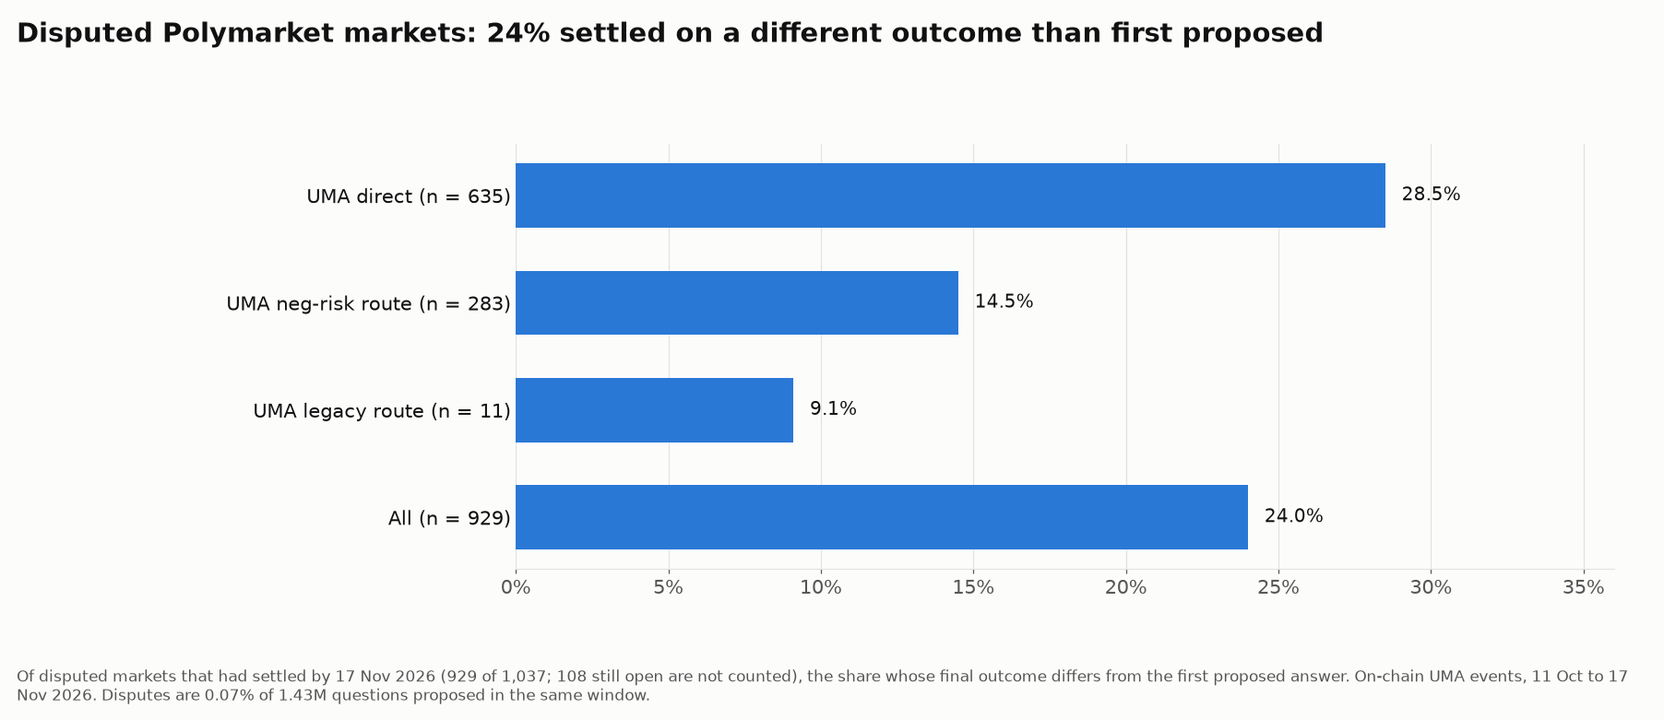
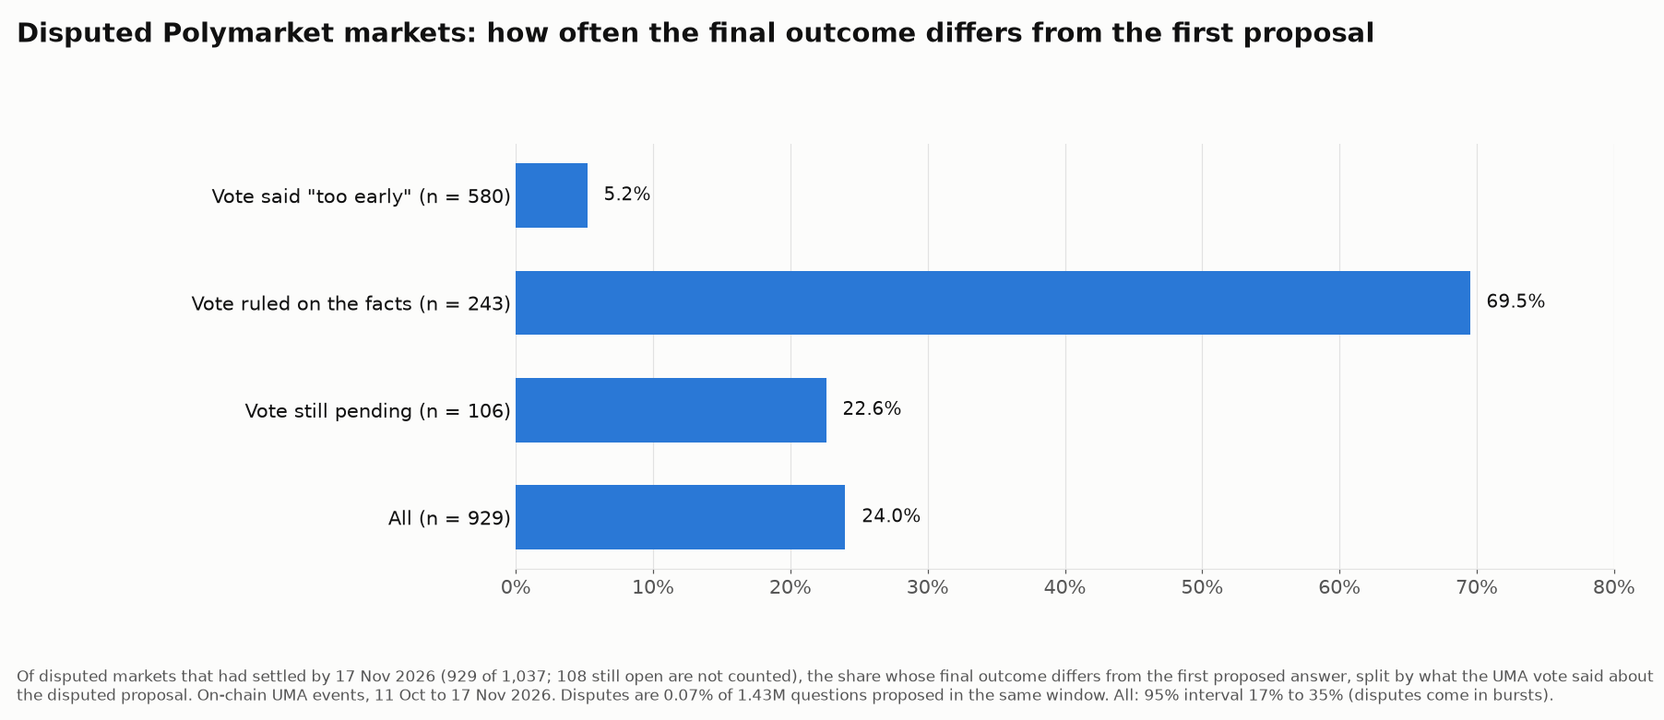
Corrections after adversarial review: cross-venue speed comparison withdrawn, disputes split by vote with clustered interval, was_disputed and admin scope reworded, predictions rescored

diff --git a/scripts/13_charts.py b/scripts/13_charts.py
@@ -43,14 +43,15 @@ finish(fig, "Who resolves Polymarket markets",
        "verified contract source and on-chain pointers, not confirmed by Polymarket. The aggregator path is documented by Polymarket.",
        "1_path_mix.png")
 
-# 2. Outcome changed after a dispute. Source: data/disputes/disputes_final.json.
+# 2. Outcome changed after a dispute, by vote. Source: output of 14_dispute_vote_split.py.
 fig, ax = plt.subplots(figsize=(16.4, 7.1)); fig.subplots_adjust(left=0.31, right=0.97, top=0.8, bottom=0.21)
-hbar(ax, ["UMA direct (n = 635)", "UMA neg-risk route (n = 283)", "UMA legacy route (n = 11)", "All (n = 929)"],
-     [28.5, 14.5, 9.1, 24.0], BLUE, lambda v: f"{v:.1f}%", 36)
+hbar(ax, ['Vote said "too early" (n = 580)', "Vote ruled on the facts (n = 243)", "Vote still pending (n = 106)", "All (n = 929)"],
+     [5.2, 69.5, 22.6, 24.0], BLUE, lambda v: f"{v:.1f}%", 80)
 ax.xaxis.set_major_formatter(FuncFormatter(lambda v, _: f"{v:.0f}%"))
-finish(fig, "Disputed Polymarket markets: 24% settled on a different outcome than first proposed",
+finish(fig, "Disputed Polymarket markets: how often the final outcome differs from the first proposal",
        "Of disputed markets that had settled by 17 Nov 2026 (929 of 1,037; 108 still open are not counted), the share whose final outcome "
-       "differs from the first proposed answer. On-chain UMA events, 11 Oct to 17 Nov 2026. Disputes are 0.07% of 1.43M questions proposed in the same window.",
+       "differs from the first proposed answer, split by what the UMA vote said about the disputed proposal. On-chain UMA events, 11 Oct to 17 Nov 2026. "
+       "Disputes are 0.07% of 1.43M questions proposed in the same window. All: 95% interval 17% to 35% (disputes come in bursts).",
        "2_disputes.png")
 
 # 3. Median lag by category. Polymarket: data/stage7/s7_pm_lag.json pm_lag_by_cat. Kalshi: data/stage4/kalshi_trades.jsonl.gz.
@@ -60,9 +61,10 @@ def fmt_min(v):
     return (f"{v:.1f}".rstrip("0").rstrip(".") if v < 10 else f"{v:.0f}") + " min"  # keep 2.5 min, not "2 min"
 fig, axes = plt.subplots(1, 2, figsize=(20, 7.6)); fig.subplots_adjust(left=0.1, right=0.98, top=0.8, bottom=0.2, wspace=0.4)
 pm = [("Crypto (n 391)", 12.6), ("Macro (n 50)", 122.4), ("Sports (n 553)", 241.8), ("Weather (n 269)", 622.8), ("Politics (n 31)", 1453.8)]
-ka = [("Crypto (n 25)", 2.5), ("Sports (n 25)", 4.0), ("Commodities (n 25)", 63.8), ("Weather (n 43)", 70.6),
-      ("Economics (n 25)", 561.2), ("Entertainment (n 25)", 1072.5)]
-for ax, data, color, sub in ((axes[0], pm, BLUE, "Polymarket: end date to settlement"), (axes[1], ka, ORANGE, "Kalshi: close to settlement")):
+# Kalshi: only categories spread over at least 5 distinct close minutes (n markets / minutes).
+ka = [("Crypto (25 / 11 min)", 2.5), ("Sports (25 / 19)", 4.0), ("Mentions (25 / 5)", 31.0), ("Financials (25 / 10)", 41.5),
+      ("Commodities (25 / 9)", 63.8), ("Weather (43 / 7)", 70.6)]
+for ax, data, color, sub in ((axes[0], pm, BLUE, "Polymarket: end date to settlement (end date = kickoff for sports)"), (axes[1], ka, ORANGE, "Kalshi: close to settlement")):
     labels = [a for a, _ in data]; vals = [b for _, b in data]; y = list(range(len(labels)))[::-1]
     ax.barh(y, vals, color=color, height=0.6, zorder=2)
     ax.set_xscale("log"); ax.set_xlim(1, 8000); ax.set_xticks(LOG_T); ax.set_xticklabels(LOG_L)
@@ -71,10 +73,10 @@ for ax, data, color, sub in ((axes[0], pm, BLUE, "Polymarket: end date to settle
     ax.grid(axis="x", color=GRID, zorder=0); ax.tick_params(axis="y", length=0)
     for s in ("top", "right", "left"): ax.spines[s].set_visible(False)
     ax.set_title(sub, loc="left", fontsize=15, color=INK)
-finish(fig, "Median settlement lag by category (two venues, two different start points)",
+finish(fig, "Median settlement lag by category: two different clocks, not comparable across venues",
        "Polymarket: scheduled markets on the two main UMA paths, closed 17 Nov 2025 to 17 Nov 2026, weighted. Kalshi: category-balanced sample of "
-       "traded non-combo markets closed 18 Sep to 17 Nov 2026 (25 per category, 43 weather). Polymarket counts from the end date, Kalshi from "
-       "the close, and categories are defined differently on each venue: read each panel on its own. Small n per bar.",
+       "traded non-combo markets closed 18 Sep to 17 Nov 2026 (markets / distinct close minutes). Polymarket counts from the end date, which is kickoff for sports, "
+       "midday for weather and start of day for most politics; Kalshi counts from the close. Read each panel on its own. Small n per bar.",
        "3_lag_by_category.png")
 
 # 4. Money waiting. Source: data/stage6/s6_pm_limbo.json and data/stage4/s4_kalshi_results.json (snapshot).

diff --git a/scripts/14_dispute_vote_split.py b/scripts/14_dispute_vote_split.py
@@ -1,0 +1,90 @@
+#!/usr/bin/env python3
+"""Disputes split by what the UMA vote said about the disputed proposal, with intervals that respect clustering.
+
+Why: disputes come in bursts (many questions of one match disputed in the same minute), and most are about
+timing ("too early"), not about the facts. A single 24% hides both.
+
+Inputs: the on-chain question file used by 09_disputes_final.py, and that script's output (or data/disputes_final.json).
+Usage: python3 -I 14_dispute_vote_split.py s2d_disputed_questions.json disputes_final.json
+"""
+import collections, json, random, sys
+
+IGNORE = str(-2**255)  # UMA "too early" answer
+
+
+def vote_kind(q):
+    """What the vote said about the FIRST disputed proposal: too early / upheld / overturned / pending."""
+    P, D, S = (collections.defaultdict(list) for _ in range(3))
+    for key, store in (("P", P), ("D", D), ("S", S)):
+        for t, v, rnd in q[key]:
+            store[rnd].append((t, str(v)))
+    r1 = min(set(P) | set(D) | set(S))
+    if not S.get(r1):
+        return "vote pending"
+    vote, first = min(S[r1])[1], min(P[r1])[1]
+    if vote == IGNORE:
+        return "too early"
+    return "upheld" if vote == first else "overturned"
+
+
+def cluster_ci(groups, stat, reps=4000, seed=1):
+    """95% interval, resampling whole clusters (hours of dispute) instead of single questions."""
+    keys, rng, out = list(groups), random.Random(seed), []
+    for _ in range(reps):
+        sample = [x for k in rng.choices(keys, k=len(keys)) for x in groups[k]]
+        out.append(stat(sample))
+    out.sort()
+    return round(out[int(reps * .025)], 1), round(out[int(reps * .975) - 1], 1)
+
+
+def pct_changed(rows):
+    return 100 * sum(r["changed"] for r in rows) / len(rows)
+
+
+def line_minus_binary(rows):
+    a = [r for r in rows if r["mtype"] == "line"]; b = [r for r in rows if r["mtype"] == "binary"]
+    return pct_changed(a) - pct_changed(b) if a and b else 0.0
+
+
+questions = {q["qid"]: q for q in json.load(open(sys.argv[1]))}
+final = json.load(open(sys.argv[2]))["rows"]
+
+split = collections.defaultdict(collections.Counter)
+by_hour = collections.defaultdict(list); by_minute = collections.Counter(); open_by_minute = collections.Counter()
+speed = collections.defaultdict(lambda: [0, 0, 0])
+for f in final:
+    q = questions[f["qid"]]
+    t_dispute = min(t for t, _, _ in q["D"])
+    settled = f["final"] is not None
+    changed = settled and str(f["final"]) != str(f["first"])
+    kind = vote_kind(q)
+    split[kind]["disputed"] += 1
+    split[kind]["settled"] += settled
+    split[kind]["changed"] += changed
+    by_minute[t_dispute // 60] += 1
+    if not settled:
+        open_by_minute[t_dispute // 60] += 1
+    else:
+        by_hour[t_dispute // 3600].append({"changed": changed, "mtype": f.get("mtype")})
+    # Speed over ALL disputed markets: an open market counts as not settled yet.
+    s = speed[f["path"]]; s[0] += 1
+    if settled:
+        last_round = max(rnd for key in "PDS" for _, _, rnd in q[key])
+        hours = (min(t for t, _, rnd in q["S"] if rnd == last_round) - t_dispute) / 3600
+        s[1] += hours <= 4; s[2] += hours <= 24
+
+rows = [r for v in by_hour.values() for r in v]
+big = by_minute.most_common(1)[0]
+out = {
+    "by_vote_on_first_disputed_proposal": {k: dict(v, changed_pct_of_settled=round(100 * v["changed"] / v["settled"], 1) if v["settled"] else None)
+                                           for k, v in sorted(split.items())},
+    "ruled_on_the_facts": {"settled": split["upheld"]["settled"] + split["overturned"]["settled"],
+                           "changed": split["upheld"]["changed"] + split["overturned"]["changed"]},
+    "all_settled": {"n": len(rows), "changed_pct": round(pct_changed(rows), 1),
+                    "ci95_hour_clusters": cluster_ci(by_hour, pct_changed), "hour_clusters": len(by_hour)},
+    "line_minus_binary_changed_pp": {"point": round(line_minus_binary(rows), 1), "ci95_hour_clusters": cluster_ci(by_hour, line_minus_binary)},
+    "largest_one_minute_burst": {"disputes": big[1], "still_open_at_cutoff": open_by_minute[big[0]]},
+    "share_of_all_disputed_settled_within": {p: {"disputed": n, "4h_pct": round(100 * a / n), "24h_pct": round(100 * b / n)}
+                                             for p, (n, a, b) in sorted(speed.items())},
+}
+print(json.dumps(out, indent=1))

diff --git a/RESULTS.md b/RESULTS.md
@@ -25,7 +25,7 @@ Cutoff 2026-11-17 00:00 UTC. Public data only. Every figure states its window an
 | UMA OOV2, neg-risk route 0x2F5e...a9d + operator (delay 1 h) | 0.9% | inferred |
 | Other / documented legacy adapters | 0.1% | mixed |
 
-Admin override in the code (verified source): adapters can flag, pause, reset or manually resolve (after a flag and a 1 h wait; 2 days on the legacy path); neg-risk operators can block resolution or set the outcome after a flag (no wait on the current route, 1 h on the legacy route), before or after UMA answers, until the result is passed to the market. This is a capability, not an observed event: how often it has been used and which addresses hold the role are not measured in v1. A forward logger records every such event from 18 Nov 2026. In the dispute data below, all 13 third-round re-asks follow a UMA vote result of "too early" (the ignore-price value), not an admin reset.
+Admin override in the code (verified source). Scope: the three UMA adapter paths and their two operators, 82.5% of sampled markets; the V2 aggregator and the no-resolver markets were not reviewed. These functions are in public, audited code; nothing here is evidence of use. Adapters can flag, pause, reset or manually resolve (after a flag and a 1 h wait; 2 days on the legacy path); neg-risk operators can block resolution or set the outcome after a flag (no wait on the current route, 1 h on the legacy route), before or after UMA answers, until the result is passed to the market. This is a capability, not an observed event: how often it has been used and which addresses hold the role are not measured in v1. A forward logger records every such event from 18 Nov 2026. In the dispute data below, all 13 third-round re-asks follow a UMA vote result of "too early" (the ignore-price value), not an admin reset.
 
 ## 2. Disputes (Polymarket, on-chain, 11 Oct to 17 Nov 2026)
 | | MOOV2 direct | MOOV2 routed | OOV2 routed | All |
@@ -46,13 +46,29 @@ Rules: the market outcome is the settlement of the latest request round; a first
 
 The 24.0% is a share of the 929 disputed markets that had settled by the cutoff. The 108 still open are left out; if all of them ended with the first answer, the share would be 21.5% (223 / 1,037); if all of them changed, 31.9%.
 
+**What the vote said about the disputed proposal.** A dispute sends the disputed proposal to the UMA vote while the market is asked again. Splitting the 1,037 by that vote (script `scripts/14_dispute_vote_split.py`):
+
+| Vote on the first disputed proposal | Disputed | Market settled by cutoff | Final outcome differs from first proposal |
+|---|---|---|---|
+| "Too early" (proposal came before the event could be settled) | 660 | 580 | 30 (5.2%) |
+| Ruled on the facts: proposal overturned | 193 | 172 | 169 |
+| Ruled on the facts: proposal upheld | 72 | 71 | 0 |
+| Vote still pending at cutoff | 112 | 106 | 24 (22.6%) |
+| All | 1,037 | 929 | 223 (24.0%) |
+
+So most disputes (64%) are about timing, and in those the first answer nearly always stands. Where the vote ruled on the facts, the final outcome differs in 169 of 243 settled markets (70%). The 24.0% is the mix of the two.
+
+**Disputes come in bursts, so the 24.0% is less precise than 929 markets suggest.** The largest burst is 65 disputes in one minute, all exact-score questions of one football match; all 65 were voted "too early" and were still open at the cutoff, so they are 65 of the 108 open markets. Resampling whole hours of disputes instead of single markets (199 hours) gives a 95% interval of 16.6% to 35.0%. The same resampling for lines vs binary gives a difference of -10.7 points with an interval of -25.7 to +7.9: the gap is not established.
+
+**Speed counted over all disputed markets, not only the settled ones.** The medians in the table leave out the 108 markets still open. Counting those as not yet settled: on the direct path 70% of disputed markets settled within 4 hours of the dispute and 84% within 24 hours; on the neg-risk route 29% and 49%; on the legacy route 11% and 56%.
+
 Excluded requester: 0x5370...8218 (not verified on Sourcify, not in Polymarket docs): 74,202 proposals and 90 disputes in the same 37 days. If it were a Polymarket adapter, the dispute denominator would rise ~5% and the dispute rate would stay at about 0.07%.
 
 Category of disputed questions (direct path mapped to Gamma by questionID; routed and legacy questions from the stage-2f mapping): sports 830, weather 117, politics 44, crypto 11, macro 9, other 4, not mapped 22 (total 1,037).
 
 Line bets vs binary (direct path): disputed at the same rate once the base is taken from the same window (540 disputed line questions and 151 binary, against 8,609 line and 2,352 binary markets in the same-window sample: ratio 0.98x). The 1.82x in the first draft used full-year base rates against 37 days of disputes; lines went from 66% of direct-path line plus binary markets over the full year to 79% in the dispute window, so that ratio was an artifact. Once disputed, lines change outcome less often (26.1%, 128 / 491) than binary markets (36.8%, 53 / 144).
 
-`was_disputed` check: of the 691 direct-path questions disputed on-chain and mapped to Gamma, data-api `/v2/resolutions` flags 29 (4.2%) as disputed. Any dataset built on that field misses about 96% of disputes. Script: `scripts/11_check_was_disputed.py`.
+`was_disputed` check: of the 691 direct-path questions disputed on-chain and mapped to Gamma, data-api `/v2/resolutions` flags 29 (4.2%) as disputed. So the field is not a count of all disputes. It may mark only disputes that were escalated to the UMA vote (38 second disputes on this path), which would make it a narrower field rather than a faulty one; that was not tested here. Script: `scripts/11_check_was_disputed.py`.
 
 Validation: on the direct path, all 635 settled questions map to a Gamma market marked closed, and all 635 match Gamma `outcomePrices`. Routed and legacy paths: 278 settled questions mapped, 278 / 278 match.
 
@@ -66,18 +82,20 @@ Validation: on the direct path, all 635 settled questions map to a Gamma market 
 | Kalshi, close to settlement, all settled non-combo (95% CI, minutes resampled) | 19,373 | 2.9 min (2.7 to 4.1) | 64 min (30 min to 9.5 h) | 10.8 h |
 | Kalshi, close to settlement, traded markets only | 6,532 | 4.0 min (4.0 to 6.0) | 9.2 h (6 min to 9.5 h) | 18.4 h |
 
-The Polymarket median is stable at ~4 h across windows and quarters. The p90 is not: 10.3 h over the full year, 6.1 to 6.3 h in the recent windows. Settlement timestamps before 9 Oct 2026 could not be checked on-chain (free RPC history), so part of the longer older tail may be timestamp noise rather than slower settlement. Script: `scripts/12_pm_lag_windows.py`.
+**What the Polymarket "end date" is.** For sports it is kickoff: in 500 of the 543 sports markets in the lag that carry a game start time, end date equals game start. For weather it is 12:00 UTC of the measured day (318 of 331 scheduled weather markets); for most politics markets it is 00:00 UTC of the event day. Sports are 84.8% of the weight, so the 4.0 h median is mostly the length of a game plus settlement; the weighted median of the non-sports markets is 1.4 h, and crypto price markets, where the end date is the observation moment, settle in a median 13 min. Kalshi's close is roughly the moment the outcome is known. The two lags therefore do not measure the same thing, and the levels cannot be compared across venues.
+
+The Polymarket median is ~4 h in each window (quarters range from 1.3 h, n 18, to 4.5 h). The p90 is not: 10.3 h over the full year, 6.1 to 6.3 h in the recent windows. Settlement timestamps before 9 Oct 2026 could not be checked on-chain (free RPC history), so part of the longer older tail may be timestamp noise rather than slower settlement. Script: `scripts/12_pm_lag_windows.py`.
 
 Kalshi sample design: 300 random minutes out of the 86,400 in the window. Kalshi closes whole strike ladders at once (dozens to thousands of markets in the same minute), so 192 of the 300 minutes contain markets and 5 minutes hold 68% of the 19,373. Confidence intervals resample minutes, not markets. The median is robust; the p90 is not, and is reported with its interval. Script: `scripts/10_kalshi_cluster_ci.py`.
 
-By category, medians. Polymarket (end date to settlement, full year): crypto 13 min (n 391), macro 2.0 h (n 50), sports 4.0 h (n 553), weather 10.4 h (n 269), politics 24.2 h (n 31). Kalshi (close to settlement, category-balanced trades sample, 25 per category, 43 weather): crypto 2.5 min, sports 4 min, commodities 1.1 h, weather 1.2 h (tail to 10.8 days), economics 9.4 h, entertainment 17.9 h. Small n per category; categories are defined differently on the two venues.
+By category, medians. Polymarket (end date to settlement, full year): crypto 13 min (n 391), macro 2.0 h (n 50), sports 4.0 h (n 553), weather 10.4 h (n 269), politics 24.2 h (n 31). Kalshi (close to settlement, trades sample; markets and distinct close minutes in brackets): crypto 2.5 min (25, 11), sports 4 min (25, 19), mentions 31 min (25, 5), financials 42 min (25, 10), commodities 1.1 h (25, 9, of which 17 markets in one minute), weather 1.2 h (43, 7). Economics (9.4 h), entertainment (17.9 h) and politics (31 min, 9 markets) each come from a single close minute, that is one settlement batch, so they are not category figures and are withdrawn from the findings. Categories are defined differently on the two venues.
 
-Exclusions: Polymarket markets whose end date is later than their close (padded end date) are excluded from the lag: 377 of 1,714 scheduled MOOV2 markets in the subsample, 302 of them sports; the direction of this bias is not known. The OOV2 route (0.9% of markets) is excluded because its timestamp does not match on-chain settlement; its on-chain proposal-to-settlement time (median 2.0 h, p90 2.0 h) is in line with the other paths, so the exclusion does not remove a slow tail. The two venues' lags start at different points (end date vs close) and are compared only on shape.
+Exclusions: Polymarket markets whose end date is later than their close (padded end date) are excluded from the lag: 377 of 1,714 scheduled MOOV2 markets in the subsample, 302 of them sports; the direction of this bias is not known. The OOV2 route (0.9% of markets) is excluded because its timestamp does not match on-chain settlement; its on-chain proposal-to-settlement time (median 2.0 h, p90 2.0 h) is in line with the other paths, but that is UMA's time, not the market's: on this route the operator adds a 1 h delay and a manual call, so a slower tail on these markets cannot be ruled out. The two venues' lags start at different points (end date vs close) and are compared only on shape.
 
 Class rule check: 100 markets (40 scheduled, 40 by-date, 20 unclassified) were labelled again from the question text alone. Scheduled: 39 of 40 agree, so little that is not a fixed-moment market gets into the lag. By-date: 20 of 40 agree; the rule also catches fixed-moment markets worded with "this week" or "in 2025" (weekly charts, year-end closes, an election), which are left out of the lag. Of the 20 unclassified, 12 are fixed-moment markets. By-date and unclassified markets are 0.3% and 1.8% of the weighted population. Sensitivity: if every by-date and unclassified market on the two MOOV2 paths were counted as scheduled (n 1,871), the median stays 4.0 h and the p90 moves from 10.3 h to 10.6 h; the politics median moves from 24.2 h (n 31) to 19.4 h (n 247) and macro from 2.0 h to 1.7 h. Read the politics figure as "about a day", not as a precise number. Labels: `data/class_check_100.csv`.
 
 ## 4. Money waiting for settlement (snapshot, 18 Nov 2026 ~06:00 UTC)
-Most of what sits in ended-but-unpaid markets is normal pipeline (hours). The part that has waited more than 3 days is one Polymarket market plus a small Kalshi remainder.
+The two venues are measured differently (Polymarket: priced open interest; Kalshi: contracts x $1), and the Polymarket side covers only markets already proposed or disputed on UMA, not ended markets still waiting for a first proposal. Most of what sits in ended-but-unpaid markets is normal pipeline (hours). The part that has waited more than 3 days is one Polymarket market plus a small Kalshi remainder.
 
 | Venue | Waiting < 6 h (normal) | 6 h to 3 days | More than 3 days | Not comparable |
 |---|---|---|---|---|
@@ -95,19 +113,19 @@ Kalshi at close: not measurable, because in-play markets close after the outcome
 |---|---|---|---|
 | 1 | UMA 60-75%, automated 20-32%, single key <= 10% | UMA ~82.5%, no-resolver (automated candidate) 15.4%, single key none identified | MISS on UMA and automated |
 | 2 | 0.5-1.5% disputed | 0.072% of questions (on-chain, 37 days; field in the prediction proved unusable) | MISS (far lower) |
-| 3 | Outcome changed in 8-20% of disputed | 24.0% of settled (223/929); 21.5% to 31.9% depending on the 108 still open | MISS (higher) |
-| 4 | Lines disputed >= 2x binary and overturned more often | 0.98x (same window); overturned less often (26.1% vs 36.8%) | MISS |
-| 5 | Kalshi median < 2 h; Polymarket median above Kalshi | Kalshi 2.9 min; Polymarket 4.0 h | HIT |
-| 6 | Polymarket p90 > 24 h; Kalshi p90 < 12 h | Polymarket 10.3 h (6.1 h recent); Kalshi 64 min (CI up to 9.5 h) | half: Kalshi HIT, Polymarket MISS |
+| 3 | Outcome changed in 8-20% of disputed | 24.0% of settled (223/929); 95% interval 16.6% to 35.0% with clustered disputes | NOT ESTABLISHED (point estimate above the range, interval overlaps it) |
+| 4 | Lines disputed >= 2x binary and overturned more often | 0.98x (same window); overturned 26.1% vs 36.8%, difference not established | MISS on the rate; second half not established |
+| 5 | Kalshi median < 2 h; Polymarket median above Kalshi | Kalshi 2.9 min; Polymarket 4.0 h | NOT TESTABLE as written: Polymarket counts from kickoff for sports, Kalshi from the close |
+| 6 | Polymarket p90 > 24 h; Kalshi p90 < 12 h | Polymarket 10.3 h (6.1 h recent); Kalshi 64 min (CI up to 9.5 h) | Kalshi HIT; Polymarket not testable (same anchor problem) |
 | 7 | Kalshi inclusive vs exclusive p90 within 10% | not computed (pending set is a snapshot, not dated per market) | NOT TESTED |
 | 8 | (gate result) price history recoverable | CLOB 50/50 at gates | resolved at gates |
-| 9 | Upset <= 1% at 0.95 both venues; 1-3% at 0.90 | PM 0.57% / 0.55%; Kalshi 1 h before close 1.7% / 1.5% | mixed, and biased (see 5) |
+| 9 | Upset <= 1% at 0.95 both venues; 1-3% at 0.90 | PM 0.57% / 0.55%; Kalshi 1 h before close 1.7% / 1.5% | partial MISS (Polymarket 0.55% at 0.90 is below 1-3%; Kalshi 1.7% at 0.95 is above 1%), and biased (see 5) |
 | 10 | 40-70% pinned at close | PM: 60% of end-date-anchored markets reach >= 0.99 or <= 0.01 in the last hour; Kalshi traded sample: 223 of 257 (87%) at >= 0.95 or <= 0.05 at close (pinning threshold differs) | PM HIT; Kalshi MISS (higher), thresholds not identical |
 | 11 | KXMVE >= 30% of Kalshi settled | not measured (combos filtered at source) | NOT TESTED |
-| 12 | (a) no OI endpoint; (b) Kalshi < $5M, top 5 > 50% | (a) false at gates; (b) $3.47M total (of which $0.70M waiting > 3 days), top 5 = 44% | (a) MISS, (b) half |
+| 12 | (a) no OI endpoint; (b) Kalshi < $5M, top 5 > 50% | (a) false at gates; (b) $3.48M total (of which $0.70M waiting > 3 days), top 5 = 44% | (a) MISS, (b) half |
 | 13 | last_update_timestamp within 5 min of on-chain settlement | 124/124 matched on the two MOOV2 paths (69 direct, 55 routed; 150/150 counting 26 no-resolver markets), median 0 s; fails on OOV2 | HIT on MOOV2, MISS on OOV2 |
 
-Four predictions missed outright (1 to 4) and four more missed in part (6, 10, 12, 13). Disputes are much rarer per market than the prior suggested, but when one happens the final outcome differs from the first proposal in about one settled case in four.
+Three predictions missed outright (1, 2, 4), four missed in part (9, 10, 12, 13), and three cannot be scored cleanly (3, 5, 6). Deviation from the preregistration: it named markets resolved 6 to 12 months before the cutoff; the results use the full 12 months, because most markets in the sample closed in the last six. Disputes are much rarer per market than the prior suggested, but when one happens the final outcome differs from the first proposal in about one settled case in four.
 
 ## 7. Corrections after independent review (18 Nov 2026)
 - Disputed-by-category counts did not add up (unmapped questions had been dropped). Recomputed on the final set; they now sum to 1,037.
@@ -124,4 +142,16 @@ Four predictions missed outright (1 to 4) and four more missed in part (6, 10, 1
 - One direct-path question had been counted as settled with the UMA "too early" value as its outcome. Both of its rounds were voted "too early" on 11 Nov and no new round had opened by the cutoff, so it is open (Gamma still lists it as open and disputed). Settled 929 (was 930), outcome changed 223 (was 224), 24.0% (was 24.1%); direct path 635 / 181 / 28.5%; outcome set by the vote 33 (was 34); still open 108. Binary share changed once disputed 36.8% (was 37.2%). Direct-path p90 from dispute to settlement 16 h (was 17 h). `scripts/09_disputes_final.py` now treats this case as open.
 - Settlement-time validation: 124 of 124 on the two MOOV2 paths, not 150 of 150. The other 26 checked markets have no resolver in Gamma data; they also matched but are not one of the validated paths.
 - Classifier: month names are now matched as whole words ("by market cap" had been read as "by" + March). Three markets move from by-date to scheduled; none enters the lag (two are on the OOV2 route, one has a padded end date), so no lag figure changes. Padded-end-date count is now 377 of 1,714.
-- Class rule check and sensitivity added (section 3). Prediction score reworded: four outright misses and four partial, instead of "six clear misses". Kalshi snapshot total $3.47M (was $3.48M, rounding).
+- Class rule check and sensitivity added (section 3). Prediction score reworded: four outright misses and four partial, instead of "six clear misses". Kalshi snapshot total: see section 9.
+
+## 9. Corrections after an adversarial review (18 Nov 2026)
+Three independent hostile reviews (numbers, method, informed reader) were run on the published repo. The dispute table, path mix, population estimate, lag table and Kalshi intervals were recomputed independently and reproduce. What changed:
+- **Cross-venue speed comparison withdrawn.** Polymarket's end date is kickoff for sports, midday for weather and start of day for most politics, so its lag includes the event itself; Kalshi's close is roughly when the outcome is known. Predictions 5 and 6 rescored as not testable.
+- **Kalshi category figures for economics, entertainment and politics withdrawn**: each rests on one settlement batch (a single close minute).
+- **Disputes split by the vote** (section 2): 660 of 1,037 were voted "too early"; the 24.0% mixes 5.2% in those with 70% where the vote ruled on the facts.
+- **Interval added to the 24.0%** (16.6% to 35.0%, clustered); prediction 3 rescored from MISS to not established; the line vs binary gap is not established.
+- **Dispute-to-settlement speed restated over all disputed markets**, open ones included.
+- **was_disputed reworded**: not a count of all disputes; possibly a flag for escalated disputes only (not tested).
+- **Admin override scope stated**: the three UMA adapter paths, 82.5% of sampled markets.
+- Kalshi snapshot total is $3.48M (3,477,920); the $3.47M in the previous correction was a sum of rounded buckets and was itself wrong. Prediction 9 scored as a partial miss. "Stable across quarters" corrected.
+Not yet done, stated as open: counting admin events in the on-chain window; checking the was_disputed interpretation against the vote; identifying the resolver of the no-resolver markets (Polymarket documents a data-feed resolution for up/down markets, not verified here); dispute rates per category and per dollar; a script for the money-waiting snapshot.

diff --git a/README.md b/README.md
@@ -5,14 +5,14 @@ Cutoff 2026-11-17 00:00 UTC. Refreshable: the numbers come from the scripts in `
 
 ## Findings
 
-1. **Disputes are rare, but when they happen the first answer often does not stand.** On Polymarket's UMA paths, 0.07% of 1.43M questions proposed between 11 Oct and 17 Nov 2026 were disputed (on-chain, numerator and denominator in the same window). Of the 929 disputed markets that had settled by the cutoff, 24% ended with a different outcome from the first proposal (28.5% on the main direct path); 108 were still open and are not counted.
-2. **Disputed markets usually settle within hours.** The adapter re-asks immediately after a dispute, so the market settles in a median 1.4 h on the main path (p90 16 h). The disputed request itself goes to the UMA vote and settles days later, with no further effect on the market.
-3. **UMA is not always the final word, on paper.** On every mapped Polymarket path, verified contract code gives an admin role the power to flag, pause, reset or manually resolve a question, and on neg-risk markets a second contract can set the outcome after a flag. This is a capability in the code, not an observed event: how often it is used and who holds the role are not measured in this release. A forward logger records every such event from 18 Nov 2026.
-4. **Crypto and sports settle fastest, economics, entertainment and politics slowest.** Kalshi settles crypto and sports in minutes after close, economics in ~9 h and entertainment in ~18 h (25 markets per category). On Polymarket, scheduled markets settle a median 4 h after their end date, politics a median 24 h (31 markets). The pattern is the same on both venues; this release does not test why.
-5. **Money waiting is mostly normal pipeline.** At the snapshot, about $5.8M had waited more than 3 days for settlement across both venues, and $5.0M of it was one Polymarket election-results market whose end date is election day. Of the rest of the ~$11M in ended-but-unpaid markets, $3.3M was within 6 hours of closing, $1.1M had waited between 6 hours and 3 days, and $0.8M was on early proposals in markets not yet past their end date.
-6. **A public field undercounts disputes by ~96%.** Polymarket's data-api `was_disputed` flags 29 of 691 direct-path questions disputed on-chain. Dispute statistics here come from on-chain events only.
+1. **Disputes are rare, and most are about timing.** On Polymarket's UMA paths, 1,037 of 1.43M questions proposed between 11 Oct and 17 Nov 2026 were disputed: 0.07% (on-chain, numerator and denominator in the same window; the population is mostly automated sports lines). In 660 of them the UMA vote said the proposal came too early, and there the first answer stood in 550 of 580 settled markets. Where the vote ruled on the facts, the final outcome differs from the first proposal in 169 of 243 settled markets. Overall, 223 of the 929 disputed markets that had settled ended on a different outcome: 24%, with a 95% interval of about 17% to 35% because disputes come in bursts (65 in one minute for one football match). 33 markets had their outcome set directly by the UMA vote; 108 were still open and are not counted.
+2. **On the main path, disputed markets usually settle within hours.** The adapter re-asks immediately after a first dispute. On the direct path 70% of all disputed markets settled within 4 hours of the dispute and 84% within a day; on the neg-risk route about half within a day. About 10% were still open at the cutoff. After a first dispute the vote on the disputed request settles days later and does not move the market; after a second dispute the vote sets the outcome.
+3. **UMA is not always the final word, on paper.** On the three UMA adapter paths (82.5% of sampled markets; the V2 aggregator and no-resolver markets were not reviewed), verified and publicly audited contract code gives an admin role the power to flag, pause, reset or manually resolve a question, and on neg-risk markets a second contract can set the outcome after a flag. This is a capability in the code, not an observed event: how often it is used and who holds the role are not measured in this release. A forward logger records every such event from 18 Nov 2026.
+4. **Settlement lags are measured, but the two venues cannot be compared.** Kalshi settles a median 2.9 minutes after close, and its close is roughly when the outcome is known. Polymarket scheduled markets settle a median 4.0 h after their end date, but for most sports markets the end date is kickoff, so that figure includes the game; where the end date is the observation moment (crypto price markets) the median is 13 minutes. On-chain, the median from UMA proposal to settlement is 0.8 h on the direct path. An earlier version of this release compared the venues by category; that comparison is withdrawn (RESULTS.md section 9).
+5. **Money waiting is mostly normal pipeline.** At one snapshot, about $5.8M had waited more than 3 days for settlement across both venues (measured differently on each), and $5.0M of it was one Polymarket election-results market whose end date is election day; without it, about $0.7M. Of the rest of the ~$11M in ended-but-unpaid markets, $3.3M was within 6 hours of closing, $1.1M had waited between 6 hours and 3 days, and $0.8M was on early proposals in markets not yet past their end date.
+6. **A public field is not a count of disputes.** Polymarket's data-api `was_disputed` is true for 29 of 691 direct-path questions disputed on-chain. It may mark only disputes escalated to the UMA vote; that was not tested. Dispute statistics here come from on-chain events only.
 
-Full tables: [RESULTS.md](RESULTS.md). Preregistered predictions and how they scored: [docs/PREDICTIONS.md](docs/PREDICTIONS.md) and section 6 of RESULTS.md (four outright misses, four partial).
+Full tables: [RESULTS.md](RESULTS.md). Preregistered predictions and how they scored: [docs/PREDICTIONS.md](docs/PREDICTIONS.md) and section 6 of RESULTS.md (three outright misses, four partial, three that cannot be scored cleanly).
 
 ## Windows (they differ by measure, and every table says which)
 
@@ -29,15 +29,16 @@ Full tables: [RESULTS.md](RESULTS.md). Preregistered predictions and how they sc
 - **Settlement time:** data-api `last_update_timestamp`, validated against the on-chain `ConditionResolution` block on 124 recent resolutions on the two main paths (all within 47 s). On the legacy neg-risk route it is not the settlement time, so those markets are excluded from every lag figure.
 - **Paths:** `resolvedBy` mapped to contracts using Polymarket docs, GitHub releases and verified source on Sourcify; levels (documented or inferred) stated per path.
 - **Disputes:** every ProposePrice, DisputePrice and Settle event on the two UMA oracles for the Polymarket adapters, grouped by question and request round. The market outcome is the settlement of the latest round; the vote on a disputed request is reported separately.
-- **Kalshi:** all settled non-combo markets closing in 300 random 60-second windows (19,373 markets: Kalshi closes whole strike ladders in the same minute, so confidence intervals resample minutes); trades for a category-balanced subsample of 25 per category.
+- **Kalshi:** all settled non-combo markets closing in 300 random 60-second windows (19,373 markets: Kalshi closes whole strike ladders in the same minute, so confidence intervals resample minutes); trades for a category subsample (25 markets in most categories; some categories come from a single close minute and are not reported).
 - **Classes:** scheduled vs by-date from question text, tags and series only (no timing or outcome fields), in `scripts/classify.py`. A 100-market check of the rule is in RESULTS.md section 3: the scheduled class is clean (39 of 40), the by-date rule is too wide (20 of 40).
 
 ## Limits
 
-- Windows differ by measure; Polymarket and Kalshi lags start from different points (end date vs close). Compare shapes, not levels.
+- Windows differ by measure. Polymarket and Kalshi lags start from different points (end date, which is kickoff for sports, vs close) and are not compared.
+- Disputes cover 37 days in one regime and cluster by match and by disputer; intervals are in RESULTS.md section 2.
 - Polymarket lag excludes markets whose end date is later than their close (377 of 1,714 scheduled markets, mostly sports). The median (4 h) is stable across windows; the p90 is 10.3 h over the year and ~6 h in recent months, and timestamps before 9 Oct 2026 could not be checked on-chain.
 - Kalshi p90 lag is fragile (64 min, 95% CI 30 min to 9.5 h) because a few minutes hold most of the sample.
-- The by-date rule also catches some fixed-moment markets ("this week", "in 2025"), which are then left out of the lag. Counting every excluded market as scheduled leaves the median at 4.0 h and moves the politics median from 24 h to 19 h.
+- The by-date rule also catches some fixed-moment markets ("this week", "in 2025"), which are then left out of the lag. Counting every excluded market as scheduled leaves the median at 4.0 h and moves the politics median from 24 h to 19 h (politics end dates are mostly the start of the event day, so read that figure loosely).
 - The upset rate is secondary: prices often already reflect the outcome before the reference point.
 - One unverified UMA requester (74k proposals, 90 disputes in the window) is excluded; if it belongs to Polymarket the dispute denominator would rise about 5%.
 - Kalshi challenge history is not public, so Kalshi has no dispute statistics.
@@ -48,7 +49,7 @@ Full tables: [RESULTS.md](RESULTS.md). Preregistered predictions and how they sc
 - `data/settlement_tracker_v1_markets.csv.gz`: one row per sampled market, both venues; schema in `docs/SCHEMA.md`.
 - `charts/`: the four figures.
 - `docs/ADMIN_POWERS.md`: admin functions and preconditions, quoted from verified source.
-- `scripts/`: collection, validation, classification, the final dispute table, the checks added after review (09 to 12), the charts (13, needs `matplotlib`) and the forward logger (Python standard library otherwise, plus `pycryptodome` for keccak in the on-chain scripts).
+- `scripts/`: collection, validation, classification, the final dispute table, the checks added after review (09 to 12, 14), the charts (13, needs `matplotlib`) and the forward logger (Python standard library otherwise, plus `pycryptodome` for keccak in the on-chain scripts).
 - `data/disputes_final.json`: one row per disputed question (path, question ID, first and final answer, how it ended; category and market type for the direct path only); no wallet data.
 - `data/class_check_100.csv`: the 100-market check of the class rule.
 

diff --git a/docs/ADMIN_POWERS.md b/docs/ADMIN_POWERS.md
@@ -61,4 +61,4 @@ On the MOOV2 direct path the adapter resolution and the CTF payout report were w
 
 ## Summary wording used in the release
 
-"On every mapped Polymarket path, verified code gives an admin role the power to flag, pause, reset or manually resolve a question over UMA's answer. At the adapter level, manual resolution requires a prior flag and a waiting period from the flag: 1 hour on the current path, 2 days on the older path; pause has no time limit. On neg-risk markets a second contract adds its own admin override: after a flag, an admin can set the outcome with no waiting period on the current route (1 hour on the older route), before or after UMA has answered, as long as the result has not yet been passed on to the market. A flag blocks normal resolution with no time limit. The original deployer no longer holds the operator role. Current holders and frequency of use are not verified in this release."
+"On the three UMA adapter paths (82.5% of sampled markets; the V2 aggregator and the no-resolver markets were not reviewed), verified code gives an admin role the power to flag, pause, reset or manually resolve a question over UMA's answer. At the adapter level, manual resolution requires a prior flag and a waiting period from the flag: 1 hour on the current path, 2 days on the older path; pause has no time limit. On neg-risk markets a second contract adds its own admin override: after a flag, an admin can set the outcome with no waiting period on the current route (1 hour on the older route), before or after UMA has answered, as long as the result has not yet been passed on to the market. A flag blocks normal resolution with no time limit. The original deployer no longer holds the operator role. Current holders and frequency of use are not verified in this release."
